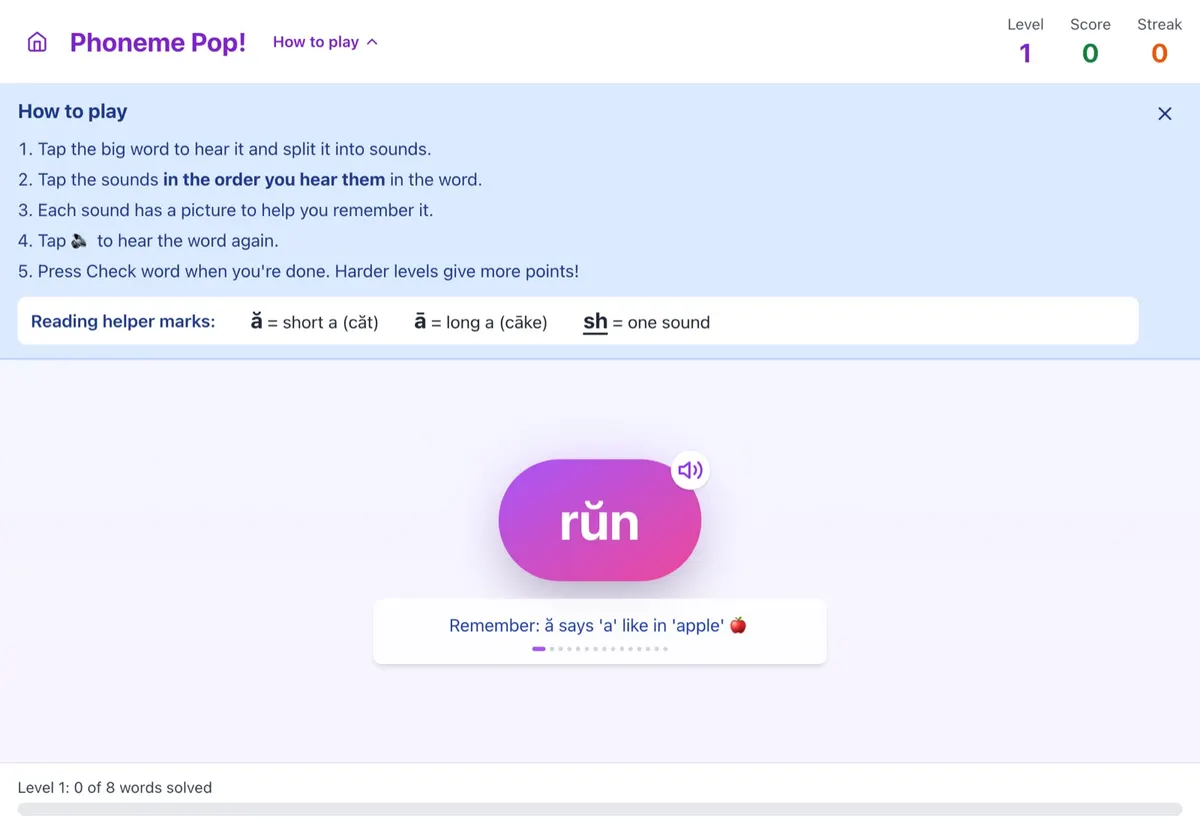
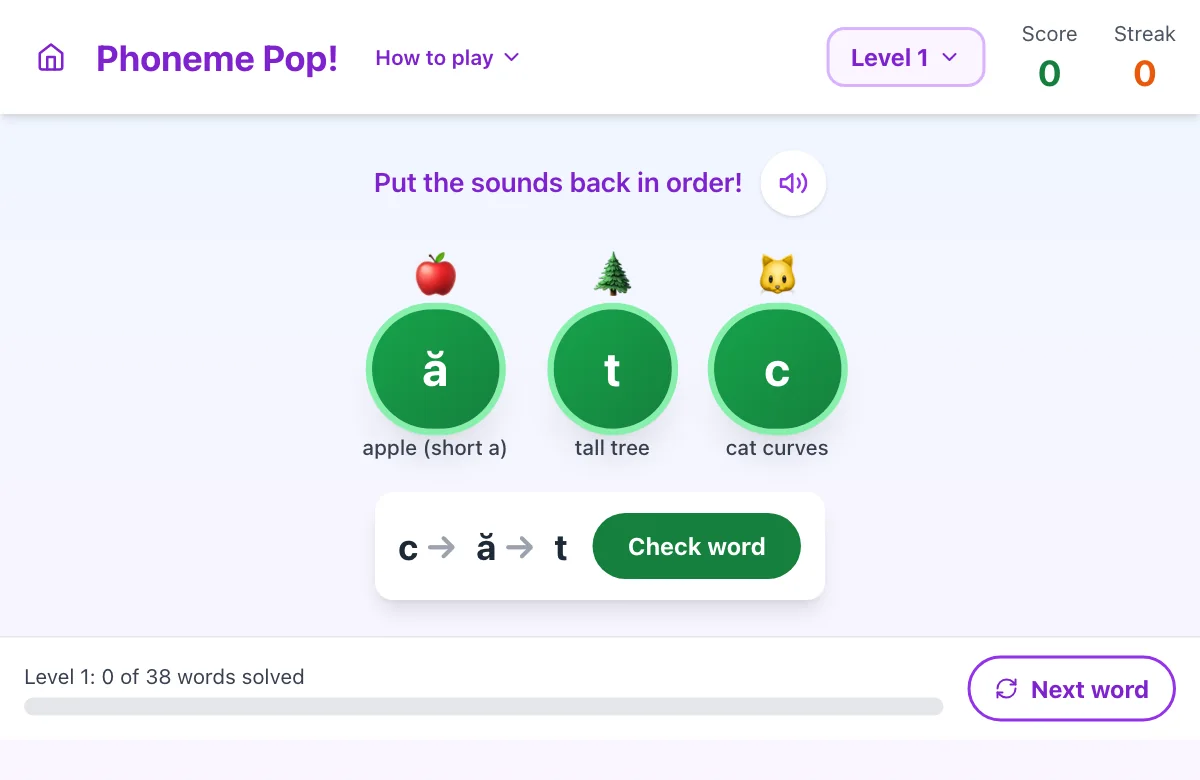
Give the landing page a calmer visual hierarchy (#55)
Use continuous lavender surfaces, distinct feature/activity/timeline/pricing compositions, stronger helper-text contrast, and an optimized capture of the real sound-building activity.

diff --git a/src/landing/LandingPage.jsx b/src/landing/LandingPage.jsx
@@ -1,7 +1,7 @@
 import Photo from './Photo.jsx';
 import LessonJoinForm from './LessonJoinForm.jsx';
 import { useEffect, useRef, useState } from 'react';
-import { ArrowRight, BookOpen, Check, Gamepad2, Image as ImageIcon, LayoutGrid, Link2, Menu, MonitorPlay, PlayCircle, Video, X } from 'lucide-react';
+import { ArrowRight, BookOpen, Check, Gamepad2, Image as ImageIcon, LayoutGrid, Menu, PlayCircle, Users, Video, Volume2, X } from 'lucide-react';
 import { Link } from '../router.jsx';
 import AccountMenu from '../account/AccountMenu.jsx';
 import SiteFooter from './SiteFooter.jsx';
@@ -41,19 +41,19 @@ function Ticks({ items, className = '' }) {
   );
 }
 
-const Eyebrow = ({ children, onDark = false, strong = false }) => <p className={`text-xs font-bold uppercase tracking-[0.14em] ${onDark ? 'text-violet-300' : strong ? 'text-violet-800' : 'text-violet-600'}`}>{children}</p>;
+const Eyebrow = ({ children }) => <p className='text-xs font-bold uppercase tracking-[0.14em] text-violet-700'>{children}</p>;
 
 const FEATURES = [
   { icon: Video, tone: 'bg-violet-100 text-violet-700', title: 'Live, interactive lessons', text: 'See and hear each other while you teach on one shared board.' },
   { icon: LayoutGrid, tone: 'bg-violet-100 text-violet-700', title: 'Structured literacy tools', text: 'Letter tiles, sound boxes, the alphabet strip, and more.' },
   { icon: ImageIcon, tone: 'bg-violet-100 text-violet-700', title: 'Use your own materials', text: 'Add worksheets and pictures, then lift out just the part you need.' },
-  { icon: Gamepad2, tone: 'bg-violet-100 text-violet-700', title: 'Engaging practice', text: 'Phoneme Pop sound practice, with more activities on the way.' },
+  { icon: Gamepad2, tone: 'bg-violet-100 text-violet-700', title: 'Engaging practice', text: 'Practice sounds with Phoneme Pop and letter order with Alphabet Bridge.' },
 ];
 
 const STEPS = [
-  { icon: PlayCircle, title: 'Start a lesson', text: 'Open My Private Teacher and start a lesson in one click.' },
-  { icon: Link2, title: 'Share the code', text: 'Your student types a 4-digit code or opens your link. No account needed.' },
-  { icon: MonitorPlay, title: 'Teach together', text: 'Use the whiteboard, tiles, pictures and video, live.' },
+  { title: 'Start a lesson', text: 'Open your whiteboard and choose the materials you want to use.' },
+  { title: 'Share the code', text: 'Your student enters a 4-digit code or opens your link. No account needed.' },
+  { title: 'Teach together', text: 'Talk, move letters, and work through your materials on the same board.' },
 ];
 
 const SECTIONS = [
@@ -201,8 +201,8 @@ export default function LandingPage() {
         </div>
       </header>
 
-      <main>
-        <section className='relative overflow-hidden bg-gradient-to-b from-violet-50 via-white to-white'>
+      <main className='bg-[#fcfbfe]'>
+        <section className='relative overflow-hidden bg-gradient-to-b from-violet-50 via-[#fcfbfe] to-[#f8f6fc]'>
           <div className='pointer-events-none absolute -right-40 -top-32 h-[32rem] w-[32rem] rounded-full bg-violet-200/40 blur-3xl' aria-hidden='true' />
           <div className='relative mx-auto grid max-w-6xl grid-cols-1 items-center gap-10 px-4 py-10 sm:gap-12 sm:px-6 sm:py-14 lg:grid-cols-[1fr_1.15fr] lg:py-20'>
             <div className='min-w-0'>
@@ -222,7 +222,7 @@ export default function LandingPage() {
                   Start free trial <ArrowRight className='h-4 w-4 shrink-0 sm:h-5 sm:w-5' aria-hidden='true' />
                 </Button>
                 <LessonJoinForm ref={joinFormRef} />
-                <p className='order-3 col-span-full text-center text-xs leading-5 text-slate-500 sm:basis-full sm:text-left'>
+                <p className='order-3 col-span-full text-center text-xs leading-5 text-slate-600 sm:basis-full sm:text-left'>
                   14 days free · No credit card required
                 </p>
               </div>
@@ -247,21 +247,24 @@ export default function LandingPage() {
         </section>
 
         <div data-landing-chapters>
-          <section id='features' data-landing-chapter className='scroll-mt-20 border-y border-slate-300 bg-slate-200'>
-            <div className='mx-auto max-w-6xl px-4 py-16 sm:px-6 lg:py-20'>
-              <div className='max-w-2xl'>
-                <Eyebrow strong>Your lesson toolkit</Eyebrow>
-                <h2 className='mt-3 text-3xl font-extrabold tracking-tight sm:text-4xl'>Everything you need for engaging lessons</h2>
+          <section id='features' aria-labelledby='features-title' data-landing-chapter className='scroll-mt-20 bg-gradient-to-b from-[#f8f6fc] to-[#f2eff9]'>
+            <div className='mx-auto max-w-6xl px-4 pb-16 pt-10 sm:px-6 sm:pt-14 lg:pb-24'>
+              <div className='flex flex-col justify-between gap-4 border-t border-violet-200/80 pt-8 lg:flex-row lg:items-end lg:gap-12'>
+                <div className='max-w-xl'>
+                  <Eyebrow>Your lesson toolkit</Eyebrow>
+                  <h2 id='features-title' className='mt-3 text-3xl font-extrabold leading-tight tracking-tight sm:text-4xl'>Keep the lesson in one place.</h2>
+                </div>
+                <p className='max-w-sm text-base leading-relaxed text-slate-600'>Move between conversation, letter work, and your own materials on one shared board.</p>
               </div>
-              <div className='mt-8 grid gap-6 sm:grid-cols-2 sm:gap-8 lg:grid-cols-4'>
-                {FEATURES.map(({ icon: Icon, tone, title, text }) => (
-                  <div key={title} className='flex gap-4 sm:block'>
-                    <span className={`flex h-11 w-11 shrink-0 items-center justify-center rounded-xl ${tone}`}>
+              <div className='mt-8 grid overflow-hidden rounded-3xl border border-violet-200/80 bg-white shadow-sm shadow-violet-950/5 sm:grid-cols-2'>
+                {FEATURES.map(({ icon: Icon, tone, title, text }, index) => (
+                  <div key={title} className={`flex items-start gap-4 p-5 sm:p-7 lg:gap-5 lg:p-8 ${index ? 'border-t border-slate-200/80' : ''} ${index === 1 ? 'sm:border-t-0' : ''} ${index % 2 ? 'sm:border-l' : ''}`}>
+                    <span className={`flex h-12 w-12 shrink-0 items-center justify-center rounded-2xl ${tone}`}>
                       <Icon className='h-6 w-6' aria-hidden='true' />
                     </span>
                     <div>
-                      <h3 className='text-base font-bold sm:mt-4'>{title}</h3>
-                      <p className='mt-1 text-slate-600 sm:mt-1.5'>{text}</p>
+                      <h3 className='text-lg font-bold leading-snug'>{title}</h3>
+                      <p className='mt-2 max-w-sm text-sm leading-relaxed text-slate-600 sm:text-base'>{text}</p>
                     </div>
                   </div>
                 ))}
@@ -269,115 +272,117 @@ export default function LandingPage() {
             </div>
           </section>
 
-          <section data-landing-chapter className='bg-white'>
-            <div className='mx-auto grid max-w-6xl grid-cols-1 items-center gap-10 px-4 py-16 sm:px-6 lg:grid-cols-2 lg:gap-12 lg:py-20'>
-              <div className='order-2 overflow-hidden rounded-3xl bg-gradient-to-br from-indigo-950 to-violet-800 p-2.5 shadow-xl lg:order-1'>
-                <Photo
-                  name='phoneme-pop'
-                  width={1600}
-                  height={1105}
-                  alt='Phoneme Pop: a word to split into its sounds'
-                  className='block h-auto w-full rounded-2xl'
-                />
-              </div>
-              <div className='order-1 lg:order-2'>
-                <Eyebrow>Interactive activities</Eyebrow>
-                <h2 className='mt-3 text-3xl font-extrabold tracking-tight sm:text-4xl'>Make practice fun and effective</h2>
-                <p className='mt-4 text-lg leading-relaxed text-slate-600'>
-                  Phoneme Pop helps students hear a word, break it into its sounds, and put them back in the right order.
-                </p>
-                <Ticks
-                  className='mt-6'
-                  items={['Builds phonemic awareness', 'Every word is read aloud', 'Levels up as students improve', 'Play together during a live lesson']}
-                />
-                <div className='mt-8'>
-                  <Button
-                    to='/phoneme-pop'
-                    kind='demo'
-                    className='group min-h-14 w-full focus-visible:outline focus-visible:outline-4 focus-visible:outline-offset-4 focus-visible:outline-violet-500 sm:w-auto'
-                  >
-                    <PlayCircle className='h-6 w-6 shrink-0' aria-hidden='true' />
-                    Play Phoneme Pop
-                    <ArrowRight className='h-5 w-5 shrink-0 transition-transform motion-safe:group-hover:translate-x-1 motion-reduce:transition-none' aria-hidden='true' />
-                  </Button>
-                  <p className='mt-3 text-center text-sm text-slate-500 sm:text-left'>Free to play. No sign-up needed.</p>
+          <section aria-labelledby='activity-title' data-landing-chapter className='bg-gradient-to-b from-[#f2eff9] via-[#faf9fd] to-[#fcfbfe]'>
+            <div className='mx-auto max-w-6xl px-4 py-16 sm:px-6 lg:py-24'>
+              <div className='grid items-center gap-8 lg:grid-cols-[1.1fr_0.9fr] lg:gap-14'>
+                <div className='order-2 min-w-0 rounded-[1.75rem] border border-violet-200 bg-white p-3 shadow-lg shadow-violet-950/5 sm:p-5 lg:order-1'>
+                  <div className='mb-3 flex items-center gap-2 px-1 text-xs font-semibold text-slate-600 sm:mb-4'>
+                    <Gamepad2 className='h-4 w-4 text-violet-700' aria-hidden='true' />
+                    Inside the activity
+                  </div>
+                  <div className='overflow-hidden rounded-2xl border border-violet-100 bg-violet-50'>
+                    <Photo
+                      name='phoneme-pop'
+                      width={1200}
+                      height={780}
+                      alt='Phoneme Pop with sound bubbles and c, short a, and t arranged to spell cat'
+                      className='block h-auto w-full'
+                    />
+                  </div>
+                </div>
+                <div className='order-1 min-w-0 lg:order-2'>
+                  <Eyebrow>Practice through play</Eyebrow>
+                  <h2 id='activity-title' className='mt-3 text-4xl font-extrabold leading-tight tracking-tight sm:text-5xl'>Phoneme Pop</h2>
+                  <p className='mt-3 text-xl font-semibold leading-snug text-slate-800'>Hear it. Break it apart. Build it again.</p>
+                  <p className='mt-4 max-w-lg text-base leading-relaxed text-slate-600 sm:text-lg'>Help students hear the sounds in a word and put them back in order. Play together in a lesson, or try the activity yourself.</p>
+                  <p className='mt-5 flex items-center gap-2 text-sm text-slate-600'>
+                    <Volume2 className='h-4 w-4 shrink-0 text-violet-700' aria-hidden='true' />
+                    Words read aloud · Choose your practice level
+                  </p>
+                  <div className='mt-7'>
+                    <Button
+                      to='/phoneme-pop'
+                      kind='demo'
+                      className='group min-h-14 w-full sm:w-auto'
+                    >
+                      <PlayCircle className='h-6 w-6 shrink-0' aria-hidden='true' />
+                      Play Phoneme Pop
+                      <ArrowRight className='h-5 w-5 shrink-0 transition-transform motion-safe:group-hover:translate-x-1 motion-reduce:transition-none' aria-hidden='true' />
+                    </Button>
+                    <p className='mt-3 text-center text-xs text-slate-600 sm:text-left'>Free to play. No sign-up needed.</p>
+                  </div>
                 </div>
               </div>
             </div>
           </section>
 
-          <section id='how-it-works' data-landing-chapter className='scroll-mt-20 border-y border-slate-800 bg-slate-900 text-white'>
-            <div className='mx-auto grid max-w-6xl grid-cols-1 gap-10 px-4 py-16 sm:px-6 lg:grid-cols-[0.8fr_2fr] lg:items-center lg:py-20'>
-              <div>
-                <Eyebrow onDark>Three simple steps</Eyebrow>
-                <h2 className='mt-3 text-3xl font-extrabold tracking-tight sm:text-4xl'>How it works</h2>
-                <p className='mt-3 text-lg text-slate-300'>Get started in minutes and start teaching.</p>
+          <section id='how-it-works' aria-labelledby='steps-title' data-landing-chapter className='scroll-mt-20 bg-[#fcfbfe]'>
+            <div className='mx-auto max-w-6xl border-y border-slate-200/80 px-4 py-16 sm:px-6 lg:py-20'>
+              <div className='mx-auto max-w-xl text-center'>
+                <Eyebrow>How it works</Eyebrow>
+                <h2 id='steps-title' className='mt-3 text-3xl font-extrabold leading-tight tracking-tight sm:text-4xl'>Less setup. More teaching.</h2>
+                <p className='mt-4 text-base leading-relaxed text-slate-600'>Three steps from opening the app to working together.</p>
               </div>
-              <ol className='grid gap-8 sm:grid-cols-3'>
-                {STEPS.map(({ icon: Icon, title, text }, i) => (
-                  <li key={title} className='relative flex items-start gap-4 sm:block sm:text-center'>
-                    <span className='relative flex h-12 w-12 shrink-0 items-center justify-center rounded-2xl bg-white/10 text-violet-200 ring-1 ring-white/15 sm:mx-auto'>
-                      <Icon className='h-6 w-6' aria-hidden='true' />
-                      <span className='absolute -left-1 -top-2 flex h-5 w-5 items-center justify-center rounded-full bg-violet-200 text-xs font-bold text-violet-950'>{i + 1}</span>
-                    </span>
-                    <div className='pt-1 sm:pt-0'>
-                      <h3 className='font-bold sm:mt-4'>{title}</h3>
-                      <p className='mt-1 text-sm leading-relaxed text-slate-300'>{text}</p>
+              <ol className='mt-10 grid gap-8 sm:mt-12 sm:grid-cols-3 sm:gap-10'>
+                {STEPS.map(({ title, text }, index) => (
+                  <li key={title} className='relative flex items-start gap-5 sm:block sm:text-center'>
+                    {index < STEPS.length - 1 && <span className='absolute bottom-[-2rem] left-7 top-14 w-px bg-violet-200 sm:bottom-auto sm:left-[calc(50%+1.75rem)] sm:top-7 sm:h-px sm:w-[calc(100%-1rem)]' aria-hidden='true' />}
+                    <span className='relative flex h-14 w-14 shrink-0 items-center justify-center rounded-full border border-violet-200 bg-white font-mono text-xl font-semibold text-violet-700 sm:mx-auto' aria-hidden='true'>{String(index + 1).padStart(2, '0')}</span>
+                    <div className='pt-1 sm:mt-5 sm:pt-0'>
+                      <h3 className='text-lg font-bold'>{title}</h3>
+                      <p className='mt-2 max-w-xs text-sm leading-relaxed text-slate-600 sm:mx-auto sm:text-base'>{text}</p>
                     </div>
-                    {i < STEPS.length - 1 && (
-                      <ArrowRight className='absolute -right-6 top-4 hidden h-5 w-5 text-violet-300/70 sm:block' aria-hidden='true' />
-                    )}
                   </li>
                 ))}
               </ol>
             </div>
           </section>
 
-          <section id='pricing' data-landing-chapter className='scroll-mt-20 border-y border-violet-300 bg-violet-200'>
-            <div className='mx-auto grid max-w-6xl grid-cols-1 items-center gap-10 px-4 py-16 sm:px-6 lg:grid-cols-2 lg:gap-12 lg:py-20'>
-              <div>
-                <Eyebrow strong>Simple pricing</Eyebrow>
-                <h2 className='mt-3 text-3xl font-extrabold tracking-tight sm:text-4xl'>One plan for your live lessons</h2>
-                <p className='mt-3 text-lg text-slate-600'>Everything you need to run effective, engaging lessons. Your students join free.</p>
+          <section id='pricing' aria-labelledby='pricing-title' data-landing-chapter className='scroll-mt-20 bg-gradient-to-b from-[#fcfbfe] to-[#f2eefb]'>
+            <div className='mx-auto max-w-5xl px-4 py-16 sm:px-6 lg:py-24'>
+              <div className='mx-auto max-w-xl text-center'>
+                <Eyebrow>Simple pricing</Eyebrow>
+                <h2 id='pricing-title' className='mt-3 text-3xl font-extrabold leading-tight tracking-tight sm:text-4xl'>One plan for every lesson.</h2>
+                <p className='mt-4 text-base leading-relaxed text-slate-600'>All your teaching tools, with room for your own materials.</p>
               </div>
-              <div className='rounded-3xl border border-violet-200 bg-white p-6 shadow-xl shadow-violet-900/10 sm:p-8'>
-                <div className='flex flex-wrap items-start justify-between gap-6'>
+              <div className='relative mt-8 overflow-hidden rounded-3xl border border-violet-200 bg-white shadow-xl shadow-violet-950/5 sm:mt-10'>
+                <div className='absolute inset-x-0 top-0 h-1 bg-violet-500' aria-hidden='true' />
+                <div className='grid gap-7 p-6 pt-8 sm:gap-10 sm:p-8 sm:pt-10 md:grid-cols-[0.85fr_1.15fr] md:p-10'>
                   <div>
-                    <Eyebrow>Tutor plan</Eyebrow>
-                    <p className='mt-2 flex items-baseline gap-1'>
-                      <span className='text-4xl font-extrabold'>$19</span>
-                      <span className='text-slate-500'>/ month</span>
+                    <div className='flex flex-wrap items-center gap-3'>
+                      <h3 className='text-lg font-bold'>Tutor plan</h3>
+                      <span className='rounded-full bg-violet-50 px-2.5 py-1 text-xs font-semibold text-violet-800'>14-day free trial</span>
+                    </div>
+                    <p className='mt-5 flex items-baseline gap-2'>
+                      <span className='text-6xl font-extrabold tracking-tight'>$19</span>
+                      <span className='text-base text-slate-600'>/ month</span>
                     </p>
-                    <p className='mt-1 inline-block rounded-full bg-emerald-50 px-2.5 py-0.5 text-xs font-semibold text-emerald-700'>14-day free trial</p>
+                    <p className='mt-4 flex items-center gap-2 text-sm font-medium text-slate-700'>
+                      <Users className='h-5 w-5 shrink-0 text-violet-600' aria-hidden='true' />
+                      Your students always join free.
+                    </p>
+                  </div>
+                  <div className='border-t border-slate-200 pt-6 md:border-l md:border-t-0 md:pl-10 md:pt-0'>
+                    <p className='text-xs font-bold uppercase tracking-wider text-slate-600'>Included in your plan</p>
+                    <Ticks
+                      className='mt-4 text-sm'
+                      items={['Unlimited lessons', 'All whiteboard tools', 'Phoneme Pop and Alphabet Bridge', 'Use your own materials', 'Students join with a code, no accounts']}
+                    />
                   </div>
                 </div>
-                <Ticks
-                  className='mt-6 text-sm'
-                  items={['Unlimited lessons', 'All whiteboard tools', 'Phoneme Pop and Alphabet Bridge', 'Use your own materials', 'Students join with a code, no accounts']}
-                />
-                <div className='mt-6'>
-                  <Button to={START} compact className='w-full'>
-                    Start 14-day free trial <ArrowRight className='h-5 w-5' aria-hidden='true' />
+                <div className='flex flex-col items-center justify-between gap-4 border-t border-violet-100 bg-violet-50/50 px-6 py-5 sm:flex-row sm:gap-6 sm:px-8 md:px-10'>
+                  <div className='order-2 text-center sm:order-1 sm:text-left'>
+                    <p className='text-sm font-semibold text-slate-700'>Make room for your next lesson.</p>
+                    <p className='mt-1 text-xs text-slate-600'>14 days free · No credit card required</p>
+                  </div>
+                  <Button to={START} compact className='order-1 w-full shrink-0 sm:order-2 sm:w-auto'>
+                    Start 14-day free trial <ArrowRight className='h-5 w-5 shrink-0' aria-hidden='true' />
                   </Button>
-                  <p className='mt-2 text-center text-sm text-slate-500'>14 days free · No credit card required</p>
                 </div>
               </div>
             </div>
           </section>
         </div>
-
-        <section className='bg-gradient-to-br from-slate-950 via-indigo-950 to-violet-950 text-white'>
-          <div className='mx-auto max-w-6xl px-4 py-16 text-center sm:px-6 lg:py-20'>
-            <div className='mx-auto max-w-3xl'>
-              <BookOpen className='mx-auto mb-5 h-10 w-10 text-[#f4b544]' strokeWidth={1.5} aria-hidden='true' />
-              <h2 className='text-3xl font-extrabold tracking-tight sm:text-4xl'>Help more students become confident readers</h2>
-              <p className='mt-4 text-lg text-slate-300'>A powerful, easy-to-use workspace designed for dyslexia tutors.</p>
-              <a href='#pricing' className='mt-6 inline-flex min-h-12 w-full items-center justify-center gap-2 rounded-xl border border-violet-300/50 bg-white/5 px-5 py-3 font-semibold text-white transition-colors hover:bg-white/10 focus-visible:outline focus-visible:outline-4 focus-visible:outline-offset-4 focus-visible:outline-violet-300 sm:w-auto'>
-                See tutor plan <ArrowRight className='h-5 w-5' aria-hidden='true' />
-              </a>
-            </div>
-          </div>
-        </section>
       </main>
 
       <SiteFooter />
